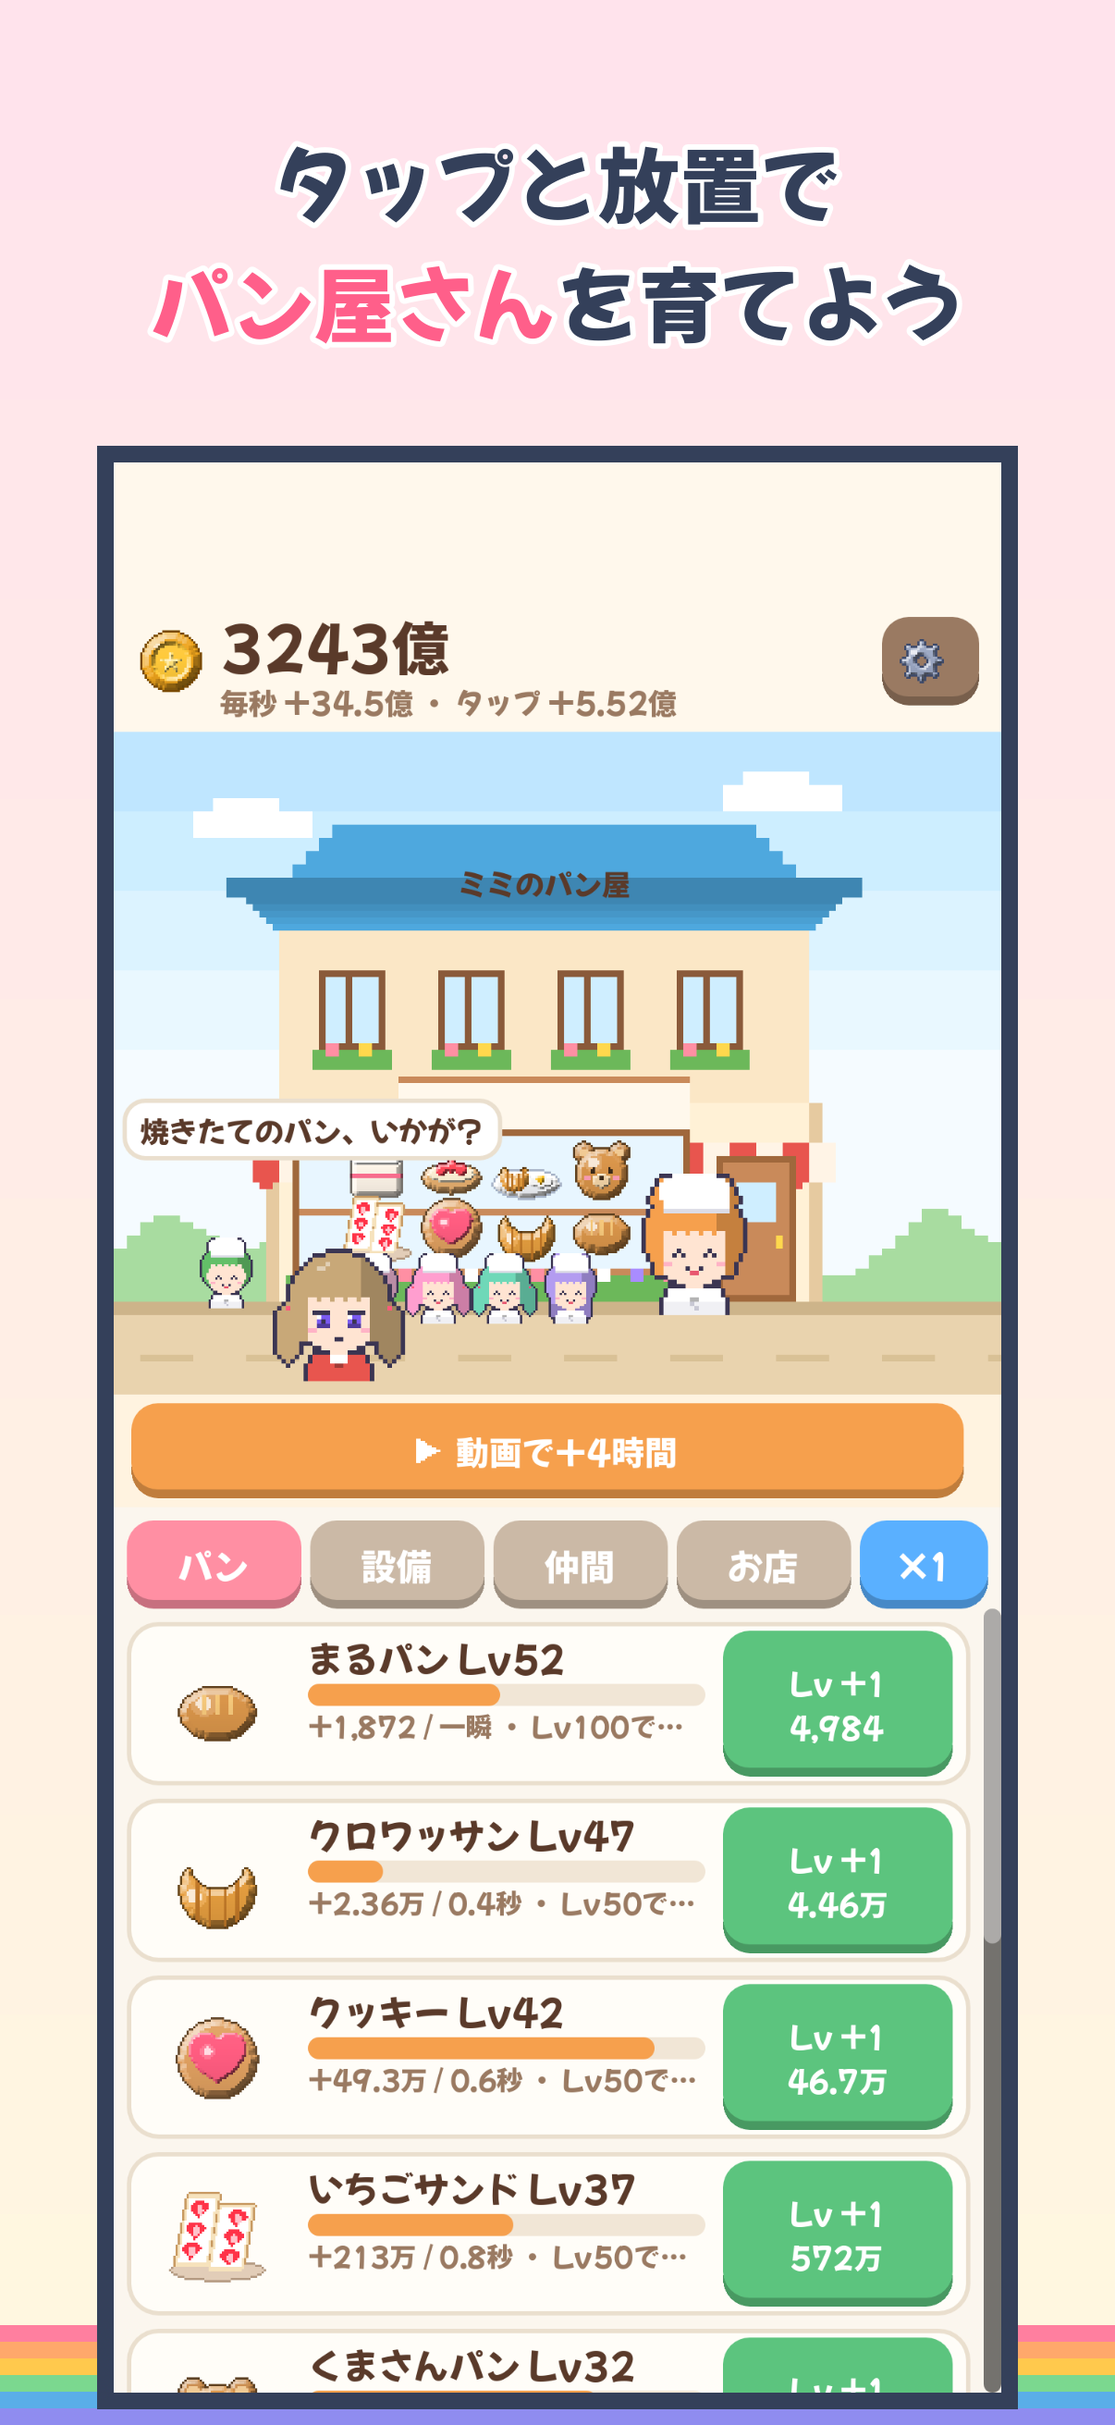
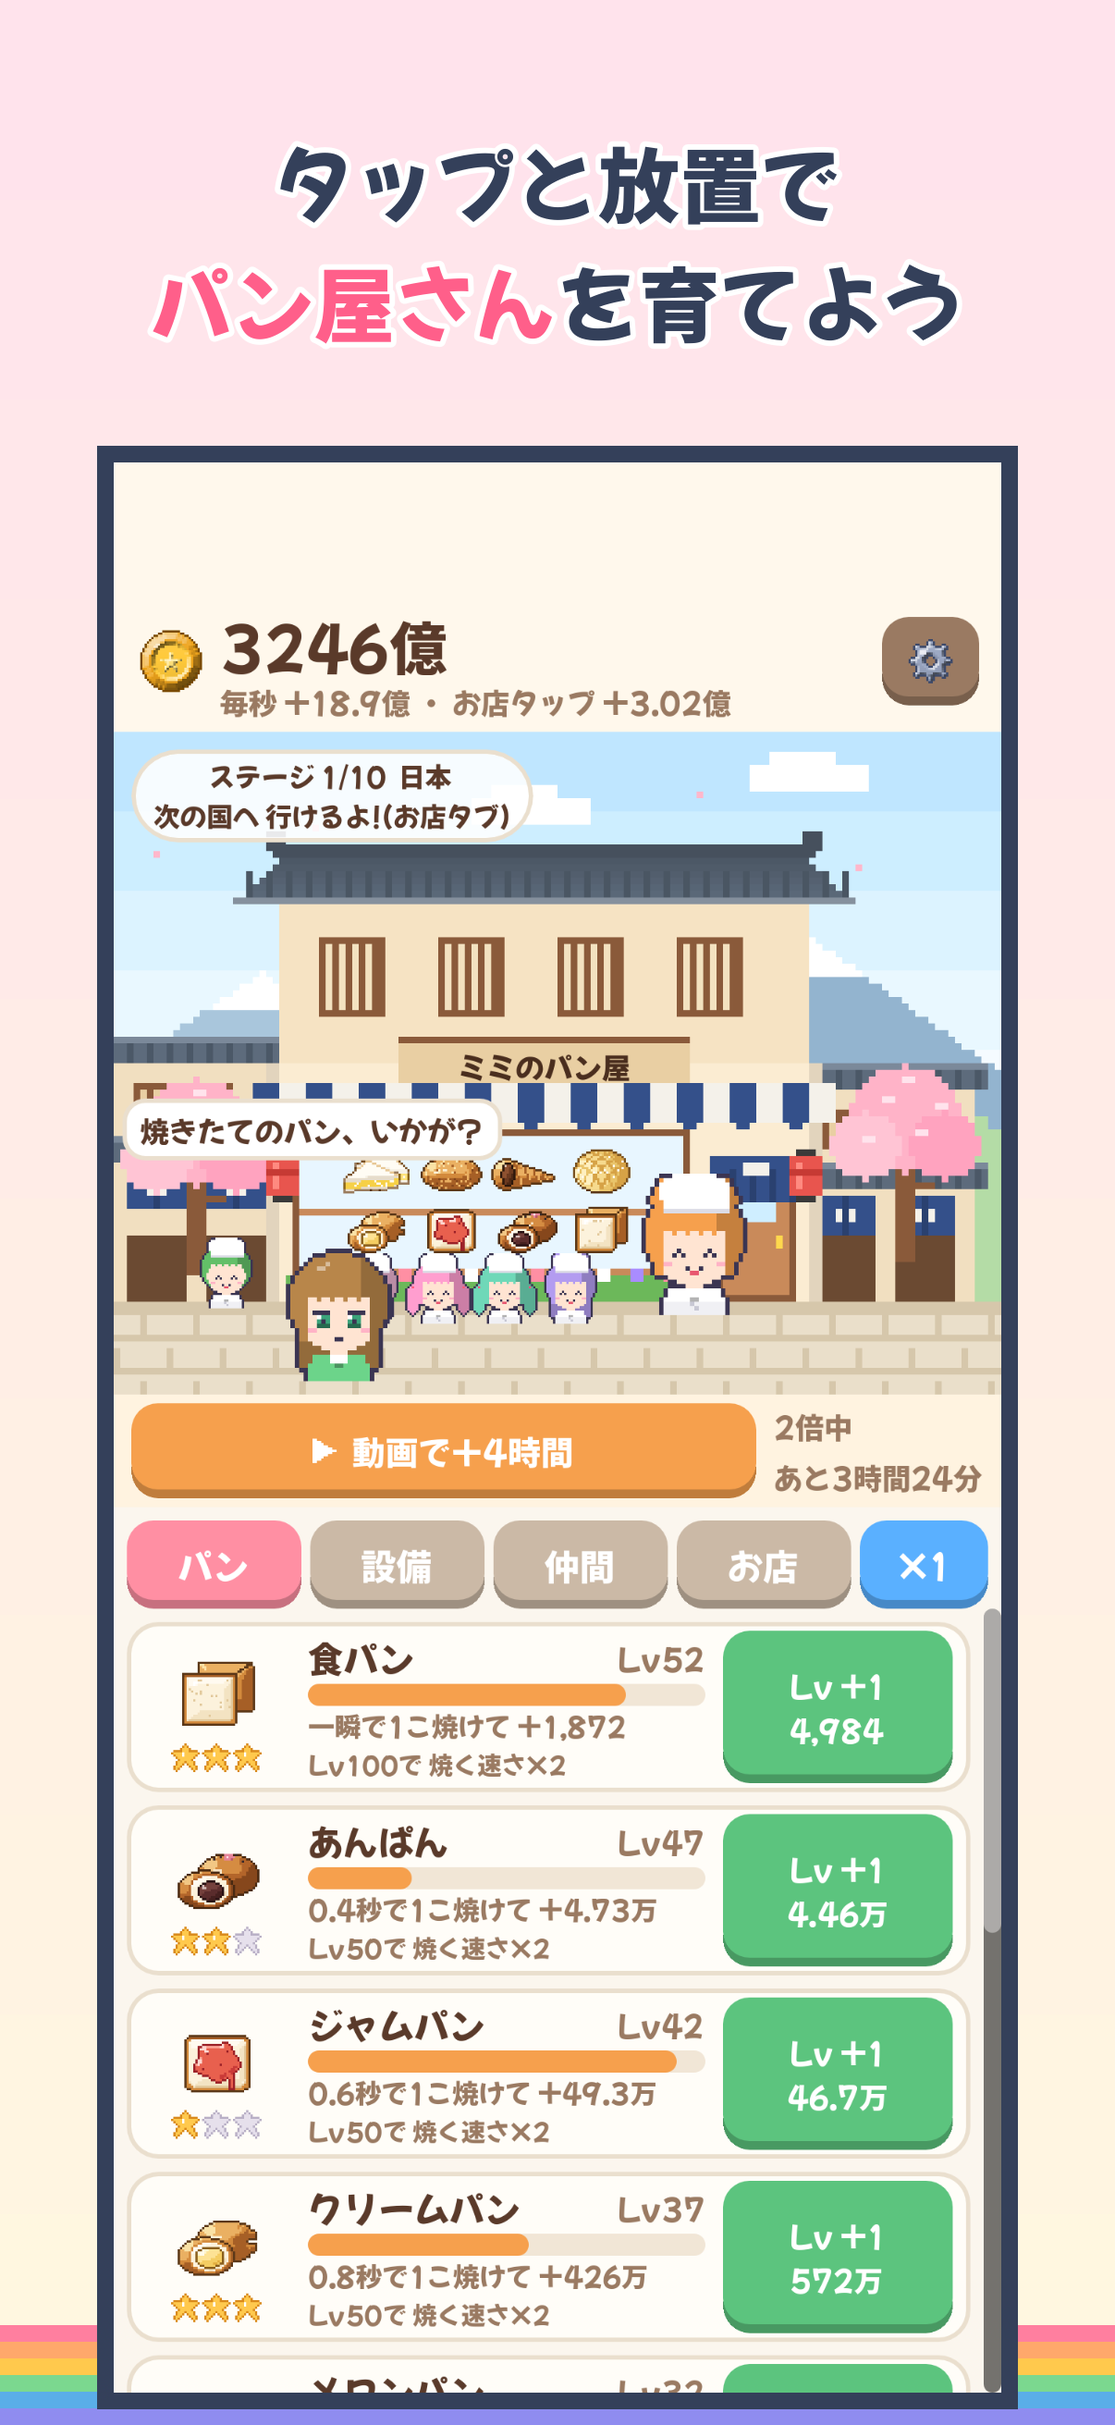
パン屋のページ: いろどりシリーズ 〜ミミと世界のパン屋さん〜 に名前を変えて作り直し(画面写真6枚)

Changed region(s): [[0.092, 0.2471, 0.9204, 0.6178], [0.1227, 0.6796, 0.8897, 0.9886], [0.7977, 0.2471, 0.859, 0.278]]

diff --git a/panya/support.html b/panya/support.html
@@ -1,7 +1,7 @@
 <!doctype html>
 <html lang="ja"><head><meta charset="utf-8"><meta name="viewport" content="width=device-width,initial-scale=1">
 <meta name="robots" content="noindex,nofollow">
-<title>サポート | パン屋さん放置ゲーム ミミのいろどりベーカリー</title><style>
+<title>サポート | いろどりシリーズ 〜ミミと世界のパン屋さん〜</title><style>
 :root{--ink:#3b3552;--muted:#7d7594;--line:#ece2d6;--bg:#fbf6ee;--pink:#e8557a;--panel:#fff}
 @media (prefers-color-scheme:dark){:root{--ink:#f1ecfb;--muted:#b3aac8;--line:#3d3756;--bg:#211d2e;--pink:#ff8fae;--panel:#2c2740}}
 *{box-sizing:border-box}body{margin:0;background:var(--bg);color:var(--ink);font-family:-apple-system,"Hiragino Maru Gothic ProN","Hiragino Sans",sans-serif;line-height:1.75}
@@ -19,15 +19,17 @@ nav ul{list-style:none;padding:0}nav li{margin:10px 0}nav a{display:block;backgr
 .shots{display:flex;gap:12px;overflow-x:auto;scroll-snap-type:x mandatory;padding:16px 16px 10px;margin:0 -16px}
 .shots img{width:min(402px,calc(100vw - 56px));height:auto;flex:none;border-radius:18px;scroll-snap-align:center;box-shadow:0 4px 0 var(--line)}
 </style></head>
-<body><main><header><a href="./">← パン屋さん放置ゲーム ミミのいろどりベーカリー</a></header><h1>サポート | パン屋さん放置ゲーム ミミのいろどりベーカリー</h1>
+<body><main><header><a href="./">← いろどりシリーズ 〜ミミと世界のパン屋さん〜</a></header><h1>サポート | いろどりシリーズ 〜ミミと世界のパン屋さん〜</h1>
 <div class="card">
-<p>「パン屋さん放置ゲーム ミミのいろどりベーカリー」へのお問い合わせは、メールでお願いします。</p>
+<p>「いろどりシリーズ 〜ミミと世界のパン屋さん〜」へのお問い合わせは、メールでお願いします。</p>
 <p>メール: <a href="mailto:sjch.sjch@icloud.com">sjch.sjch@icloud.com</a></p>
 <p class="muted">お問い合わせの際は、お使いのiPhoneの機種とiOSのバージョンを書いていただけると助かります。</p>
 <h2>よくあるご質問</h2>
-<p><b>買ったもの(広告なしパック・お留守番のばし・ミミの制服セット)が使えません</b><br>アプリを一度終了して、もう一度起動してください。それでも使えない場合は、「せってい」の「ショップ・購入を復元」を開いて「購入を復元」を押してください。お金はかかりません。それでも直らない場合は、購入した日時と商品名を書いて、メールでお問い合わせください。</p>
+<p><b>買ったもの(広告なしパック・繁盛パック・お留守番のばし・ミミの制服)が使えません</b><br>アプリを一度終了して、もう一度起動してください。それでも使えない場合は、「せってい」の「ショップ・購入を復元」を開いて「購入を復元」を押してください。お金はかかりません。それでも直らない場合は、購入した日時と商品名を書いて、メールでお問い合わせください。</p>
 <p><b>機種変更・アプリの入れなおしで、買ったものをもどしたい</b><br>同じApple Accountでサインインして、「購入を復元」を押してください。</p>
 <p><b>広告なしパックを買うと、何が変わりますか</b><br>このゲームには、もともと勝手に出る広告(全画面の広告・バナー)はありません。広告なしパックを買うと、動画を見なくても売上がずっと2倍になり、おかえりなさいの売上もいつでも2倍で受け取れます。</p>
+<p><b>広告なしパックと繁盛パックのちがいは</b><br>どちらも売上がずっと2倍になる買い切りの商品です。広告なしパックは「動画を見て2倍」がずっと続く商品で、おかえりなさいの売上もいつでも2倍になります。繁盛パックは、それとは別に売上がずっと2倍になります。2つは別々に買えて、両方あると売上はずっと4倍です。どちらを先に買っても同じです。繁盛パックだけの人は、動画を見ると、そのあいだは4倍になります。</p>
+<p><b>ミミの制服は、1つずつとセットのどちらがいいですか</b><br>制服は1つ100円で、好きな服だけ買えます。ベレー帽・花かんむり・麦わら帽子・メイドの4つがそろうセットは300円です(1つずつ買うより100円おとく)。もう持っている服があるときは、残りの服を1つずつ買うほうがおとくなことがあります。ショップに案内が出ます。</p>
 <p><b>返金したい</b><br>アプリ内課金の返金は、Appleが受け付けています。<a href="https://reportaproblem.apple.com/">Appleの「問題を報告する」ページ</a>からお申し込みください。</p>
 <p><b>1か月に買える金額に上限があります</b><br>未成年の方が使いすぎないよう、15歳以下の方は1か月に5,000円まで、16〜19歳の方は1か月に10,000円までとしています。月が変わると、また購入できます。</p>
 <p><b>動画を見てもごほうびがもらえません</b><br>動画を最後まで見て閉じると、売上が4時間2倍になります(12時間までためられます)。おかえりなさいの売上を2倍で受け取ることもできます。途中で閉じた場合はもらえません。動画は1日20回までです。電波の弱いところでは、動画を読みこめないことがあります。</p>

diff --git a/panya/tokusho.html b/panya/tokusho.html
@@ -1,7 +1,7 @@
 <!doctype html>
 <html lang="ja"><head><meta charset="utf-8"><meta name="viewport" content="width=device-width,initial-scale=1">
 <meta name="robots" content="noindex,nofollow">
-<title>特定商取引法に基づく表記 | パン屋さん放置ゲーム ミミのいろどりベーカリー</title><style>
+<title>特定商取引法に基づく表記 | いろどりシリーズ 〜ミミと世界のパン屋さん〜</title><style>
 :root{--ink:#3b3552;--muted:#7d7594;--line:#ece2d6;--bg:#fbf6ee;--pink:#e8557a;--panel:#fff}
 @media (prefers-color-scheme:dark){:root{--ink:#f1ecfb;--muted:#b3aac8;--line:#3d3756;--bg:#211d2e;--pink:#ff8fae;--panel:#2c2740}}
 *{box-sizing:border-box}body{margin:0;background:var(--bg);color:var(--ink);font-family:-apple-system,"Hiragino Maru Gothic ProN","Hiragino Sans",sans-serif;line-height:1.75}
@@ -19,4 +19,4 @@ nav ul{list-style:none;padding:0}nav li{margin:10px 0}nav a{display:block;backgr
 .shots{display:flex;gap:12px;overflow-x:auto;scroll-snap-type:x mandatory;padding:16px 16px 10px;margin:0 -16px}
 .shots img{width:min(402px,calc(100vw - 56px));height:auto;flex:none;border-radius:18px;scroll-snap-align:center;box-shadow:0 4px 0 var(--line)}
 </style></head>
-<body><main><header><a href="./">← パン屋さん放置ゲーム ミミのいろどりベーカリー</a></header><h1>特定商取引法に基づく表記 | パン屋さん放置ゲーム ミミのいろどりベーカリー</h1><div class="card"><dl><dt>販売事業者</dt><dd>CHIHIRO SHIRATA</dd><dt>運営責任者</dt><dd>CHIHIRO SHIRATA</dd><dt>所在地</dt><dd>請求があった場合には遅滞なく開示いたします。</dd><dt>電話番号</dt><dd>請求があった場合には遅滞なく開示いたします。</dd><dt>メールアドレス</dt><dd>sjch.sjch@icloud.com</dd><dt>販売価格</dt><dd>各商品の購入画面に表示する価格(税込)です。</dd><dt>販売数量</dt><dd>各商品の購入画面に表示します。</dd><dt>商品代金以外の必要料金</dt><dd>インターネット接続に必要な通信料は、お客様のご負担となります。</dd><dt>支払方法</dt><dd>App Store(Apple ID)による決済</dd><dt>支払時期</dt><dd>購入手続きの完了時に、Apple IDに登録されたお支払い方法で決済されます。</dd><dt>引渡時期</dt><dd>決済の完了後、ただちにアプリ内に反映されます(売上2倍・お留守番のばし・制服が使えるようになる)。</dd><dt>返品・キャンセル</dt><dd>デジタルコンテンツの性質上、購入後の返品・キャンセルはお受けできません。返金についてはAppleの規定に従います。ただし、アプリの不具合により購入したアイテムが届かなかった場合などは、メールでお問い合わせください。</dd><dt>動作環境</dt><dd>iOS 15以降</dd></dl></div></main></body></html>
+<body><main><header><a href="./">← いろどりシリーズ 〜ミミと世界のパン屋さん〜</a></header><h1>特定商取引法に基づく表記 | いろどりシリーズ 〜ミミと世界のパン屋さん〜</h1><div class="card"><dl><dt>販売事業者</dt><dd>CHIHIRO SHIRATA</dd><dt>運営責任者</dt><dd>CHIHIRO SHIRATA</dd><dt>所在地</dt><dd>請求があった場合には遅滞なく開示いたします。</dd><dt>電話番号</dt><dd>請求があった場合には遅滞なく開示いたします。</dd><dt>メールアドレス</dt><dd>sjch.sjch@icloud.com</dd><dt>販売価格</dt><dd>各商品の購入画面に表示する価格(税込)です。</dd><dt>販売数量</dt><dd>各商品の購入画面に表示します。</dd><dt>商品代金以外の必要料金</dt><dd>インターネット接続に必要な通信料は、お客様のご負担となります。</dd><dt>支払方法</dt><dd>App Store(Apple ID)による決済</dd><dt>支払時期</dt><dd>購入手続きの完了時に、Apple IDに登録されたお支払い方法で決済されます。</dd><dt>引渡時期</dt><dd>決済の完了後、ただちにアプリ内に反映されます(売上2倍・繁盛パックの売上2倍・お留守番のばし・制服が使えるようになる)。</dd><dt>返品・キャンセル</dt><dd>デジタルコンテンツの性質上、購入後の返品・キャンセルはお受けできません。返金についてはAppleの規定に従います。ただし、アプリの不具合により購入したアイテムが届かなかった場合などは、メールでお問い合わせください。</dd><dt>動作環境</dt><dd>iOS 15以降</dd></dl></div></main></body></html>

diff --git a/panya/index.html b/panya/index.html
@@ -1,7 +1,7 @@
 <!doctype html>
 <html lang="ja"><head><meta charset="utf-8"><meta name="viewport" content="width=device-width,initial-scale=1">
 <meta name="robots" content="noindex,nofollow">
-<title>パン屋さん放置ゲーム ミミのいろどりベーカリー</title><style>
+<title>いろどりシリーズ 〜ミミと世界のパン屋さん〜</title><style>
 :root{--ink:#3b3552;--muted:#7d7594;--line:#ece2d6;--bg:#fbf6ee;--pink:#e8557a;--panel:#fff}
 @media (prefers-color-scheme:dark){:root{--ink:#f1ecfb;--muted:#b3aac8;--line:#3d3756;--bg:#211d2e;--pink:#ff8fae;--panel:#2c2740}}
 *{box-sizing:border-box}body{margin:0;background:var(--bg);color:var(--ink);font-family:-apple-system,"Hiragino Maru Gothic ProN","Hiragino Sans",sans-serif;line-height:1.75}
@@ -19,8 +19,8 @@ nav ul{list-style:none;padding:0}nav li{margin:10px 0}nav a{display:block;backgr
 .shots{display:flex;gap:12px;overflow-x:auto;scroll-snap-type:x mandatory;padding:16px 16px 10px;margin:0 -16px}
 .shots img{width:min(402px,calc(100vw - 56px));height:auto;flex:none;border-radius:18px;scroll-snap-align:center;box-shadow:0 4px 0 var(--line)}
 </style></head>
-<body><main><header><a href="../">← 七色パレットゲームズ</a></header><div class="hero"><img src="images/icon.png" alt="アプリアイコン"><p class="sub">シミュレーション</p><h1>パン屋さん放置ゲーム ミミのいろどりベーカリー</h1><span class="soon">iPhone版 近日公開</span></div><div class="shots"><img src="images/01_pan.png" alt="スクリーンショット" loading="lazy"><img src="images/02_away.png" alt="スクリーンショット" loading="lazy"><img src="images/03_staff.png" alt="スクリーンショット" loading="lazy"><img src="images/04_grow.png" alt="スクリーンショット" loading="lazy"></div>
-<ul class="feat"><li>タップと放置で、パンが焼けて自動で売れる。屋台から町いちばんのベーカリーへ</li><li>アプリを閉じていても「お留守番」で売れる。1日に何回か開いて、まとめて買い物</li><li>『ぽこのいろどりマルシェ』のミミと仲間たちが お店をてつだう。勝手に出る広告なし・動画は見たいときだけ</li></ul>
+<body><main><header><a href="../">← 七色パレットゲームズ</a></header><div class="hero"><img src="images/icon.png" alt="アプリアイコン"><p class="sub">シミュレーション</p><h1>いろどりシリーズ 〜ミミと世界のパン屋さん〜</h1><span class="soon">iPhone版 近日公開</span></div><div class="shots"><img src="images/01_pan.png" alt="スクリーンショット" loading="lazy"><img src="images/02_bake.png" alt="スクリーンショット" loading="lazy"><img src="images/03_world.png" alt="スクリーンショット" loading="lazy"><img src="images/04_zukan.png" alt="スクリーンショット" loading="lazy"><img src="images/05_away.png" alt="スクリーンショット" loading="lazy"><img src="images/06_staff.png" alt="スクリーンショット" loading="lazy"></div>
+<ul class="feat"><li>いろどり村のミミが自分のパン屋を開いて、世界のパンをめぐる旅へ。日本からフランスまで10の国</li><li>タップと放置でパンを焼いて売る。新しいパンは温度のゲージのまん中で焼くと「最高の焼き上がり」</li><li>実在する世界のパン120種を、由来の一言つきの図鑑に集めよう。勝手に出る広告なし・動画は見たいときだけ</li></ul>
 <nav><ul>
 <li><a href="support.html">サポート・お問い合わせ</a></li>
 <li><a href="privacy.html">プライバシーポリシー</a></li>

diff --git a/panya/privacy.html b/panya/privacy.html
@@ -1,7 +1,7 @@
 <!doctype html>
 <html lang="ja"><head><meta charset="utf-8"><meta name="viewport" content="width=device-width,initial-scale=1">
 <meta name="robots" content="noindex,nofollow">
-<title>プライバシーポリシー | パン屋さん放置ゲーム ミミのいろどりベーカリー</title><style>
+<title>プライバシーポリシー | いろどりシリーズ 〜ミミと世界のパン屋さん〜</title><style>
 :root{--ink:#3b3552;--muted:#7d7594;--line:#ece2d6;--bg:#fbf6ee;--pink:#e8557a;--panel:#fff}
 @media (prefers-color-scheme:dark){:root{--ink:#f1ecfb;--muted:#b3aac8;--line:#3d3756;--bg:#211d2e;--pink:#ff8fae;--panel:#2c2740}}
 *{box-sizing:border-box}body{margin:0;background:var(--bg);color:var(--ink);font-family:-apple-system,"Hiragino Maru Gothic ProN","Hiragino Sans",sans-serif;line-height:1.75}
@@ -19,9 +19,9 @@ nav ul{list-style:none;padding:0}nav li{margin:10px 0}nav a{display:block;backgr
 .shots{display:flex;gap:12px;overflow-x:auto;scroll-snap-type:x mandatory;padding:16px 16px 10px;margin:0 -16px}
 .shots img{width:min(402px,calc(100vw - 56px));height:auto;flex:none;border-radius:18px;scroll-snap-align:center;box-shadow:0 4px 0 var(--line)}
 </style></head>
-<body><main><header><a href="./">← パン屋さん放置ゲーム ミミのいろどりベーカリー</a></header><h1>プライバシーポリシー | パン屋さん放置ゲーム ミミのいろどりベーカリー</h1>
+<body><main><header><a href="./">← いろどりシリーズ 〜ミミと世界のパン屋さん〜</a></header><h1>プライバシーポリシー | いろどりシリーズ 〜ミミと世界のパン屋さん〜</h1>
 <div class="card">
-<p>CHIHIRO SHIRATA(以下「当方」)は、スマートフォン向けゲーム「パン屋さん放置ゲーム ミミのいろどりベーカリー」(以下「本アプリ」)における利用者の情報の取り扱いについて、次のとおり定めます。</p>
+<p>CHIHIRO SHIRATA(以下「当方」)は、スマートフォン向けゲーム「いろどりシリーズ 〜ミミと世界のパン屋さん〜」(以下「本アプリ」)における利用者の情報の取り扱いについて、次のとおり定めます。</p>
 <h2>1. 当方が取得する情報</h2>
 <p>当方は、氏名、メールアドレス、電話番号、住所、連絡先、写真など、利用者を特定できる情報を取得しません。当方のサーバーへゲームのデータを送ることもありません。</p>
 <h2>2. ゲームのデータ</h2>
